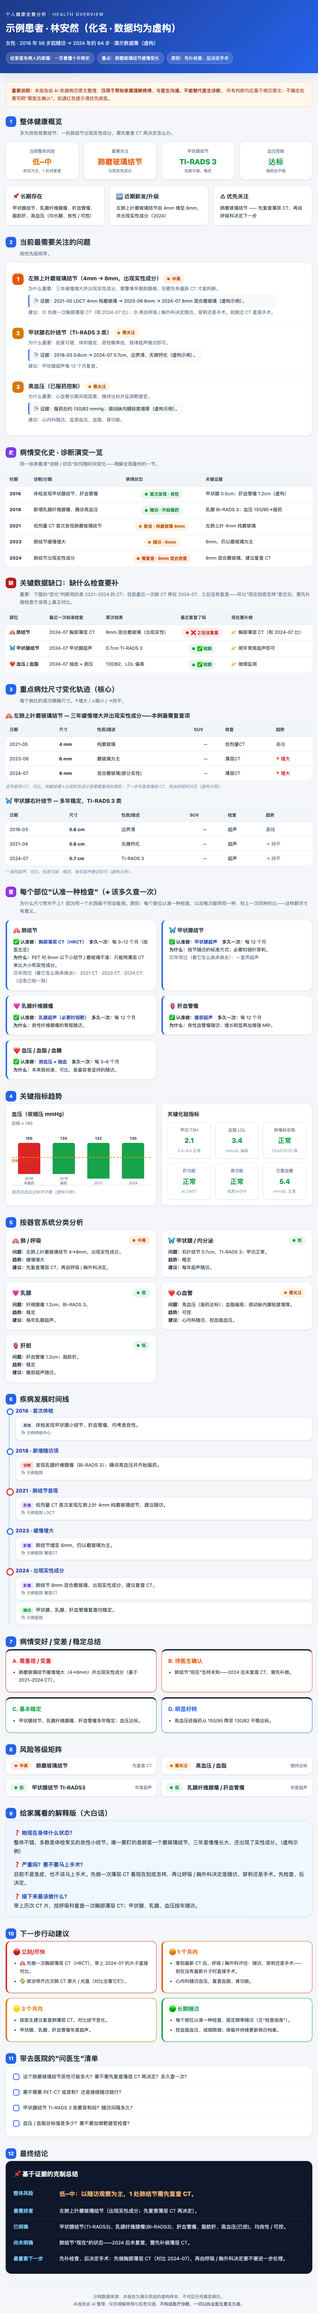
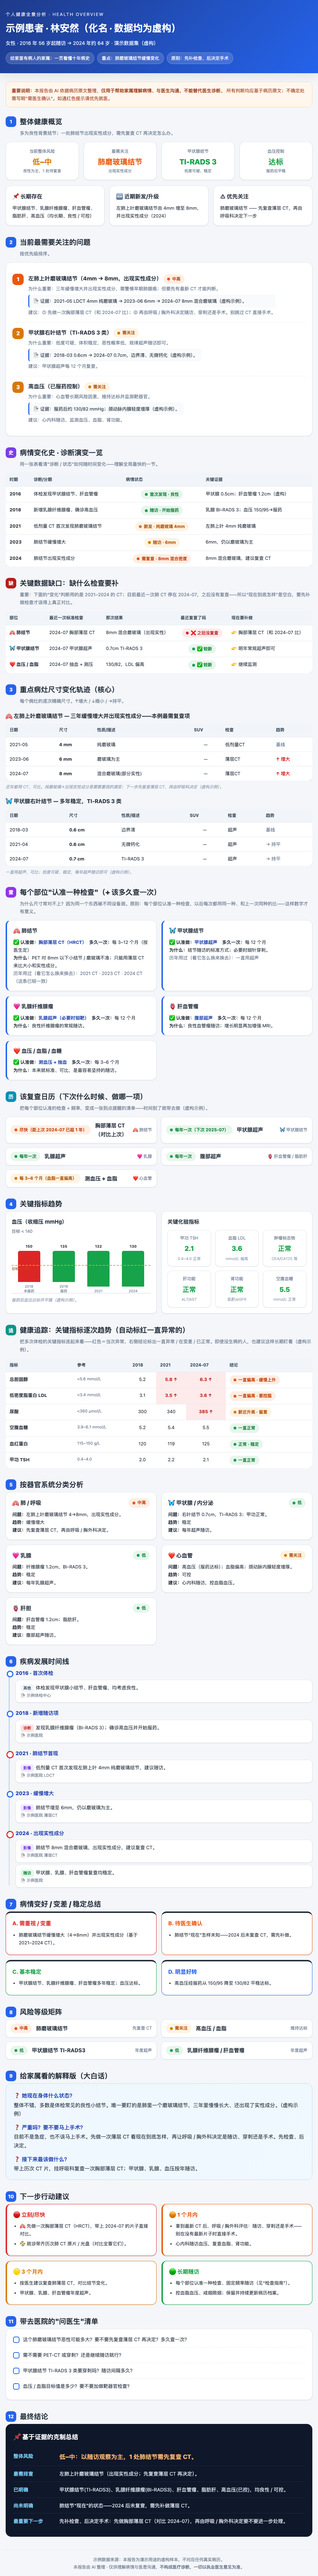
feat: health-tracking mode — lab_history trend table + recheck calendar
Add two sections so the skill also serves healthy people doing longitudinal
tracking: lab_history (key labs across visits, auto-flags persistently abnormal
values with a verdict) and recheck_calendar (per-site next-exam reminders).
Schema, fictional sample, SKILL.md, README, sample report, demo GIF and full
image refreshed. Fictional data only.

diff --git a/examples/sample_report.html b/examples/sample_report.html
@@ -124,12 +124,18 @@ footer{text-align:center;color:var(--muted);font-size:12px;margin-top:36px;paddi
             <div style="font-size:13px"><b>✅ 认准做：</b><span style="color:var(--blue-d)"><b>乳腺超声（必要时钼靶）</b></span>　<b>多久一次：</b>每 12 个月<br><b>为什么：</b>良性纤维腺瘤的常规随访。</div></div><div class="card" style="border-left:4px solid var(--blue)"><h3 style="font-size:15px">🫀 肝血管瘤</h3>
             <div style="font-size:13px"><b>✅ 认准做：</b><span style="color:var(--blue-d)"><b>腹部超声</b></span>　<b>多久一次：</b>每 12 个月<br><b>为什么：</b>良性血管瘤随访；增长明显再加增强 MRI。</div></div><div class="card" style="border-left:4px solid var(--blue)"><h3 style="font-size:15px">❤ 血压 / 血脂 / 血糖</h3>
             <div style="font-size:13px"><b>✅ 认准做：</b><span style="color:var(--blue-d)"><b>测血压 + 抽血</b></span>　<b>多久一次：</b>每 3–6 个月<br><b>为什么：</b>本来就标准、可比，是最容易坚持的随访。</div></div></div></section>
+<section><h2 class="sec"><span class="num" style="background:#0891b2">历</span>该复查日历（下次什么时候、做哪一项）</h2>
+          <p class="sec-desc">把每个部位认准的检查 + 频率，变成一张到点提醒的清单——时间到了就带去做（虚构示例）。</p>
+          <div class="risk-matrix"><div class="rm"><span class="badge b-orange"><span class="dotr d-orange"></span>尽快（距上次 2024-07 已超 1 年）</span><span class="sys">胸部薄层 CT（对比上次）</span><span class="lv">🫁 肺结节</span></div><div class="rm"><span class="badge b-green"><span class="dotr d-green"></span>每年一次（下次 2025-07）</span><span class="sys">甲状腺超声</span><span class="lv">🦋 甲状腺结节</span></div><div class="rm"><span class="badge b-green"><span class="dotr d-green"></span>每年一次</span><span class="sys">乳腺超声</span><span class="lv">🩷 乳腺</span></div><div class="rm"><span class="badge b-green"><span class="dotr d-green"></span>每年一次</span><span class="sys">腹部超声</span><span class="lv">🫀 肝血管瘤 / 脂肪肝</span></div><div class="rm"><span class="badge b-yellow"><span class="dotr d-yellow"></span>每 3–6 个月（血脂一直偏高）</span><span class="sys">测血压 + 血脂</span><span class="lv">❤ 心血管</span></div></div></section>
 <section><h2 class="sec"><span class="num">4</span>关键指标趋势</h2>
           <div class="grid g2"><div class="chart"><h3 style="margin:0 0 4px;font-size:15px">血压（收缩压 mmHg）</h3>
               <div style="font-size:12px;color:var(--muted);margin-bottom:6px">目标 &lt; 140</div>
               <div class="bars"><div class="refline" style="bottom:calc(18px + 0.30000000000000004*(160px - 18px))">目标 &lt; 140</div><div class="bar"><div class="val">150</div><div class="col" style="height:100%;background:var(--red)"></div><div class="lab">2018
 未服药</div></div><div class="bar"><div class="val">135</div><div class="col" style="height:90%;background:var(--green)"></div><div class="lab">2019
-服药</div></div><div class="bar"><div class="val">132</div><div class="col" style="height:88%;background:var(--green)"></div><div class="lab">2021</div></div><div class="bar"><div class="val">130</div><div class="col" style="height:86%;background:var(--green)"></div><div class="lab">2024</div></div></div><p class="note-src">服药后血压达标并平稳（虚构示例）。</p></div><div class="chart"><h3 style="margin:0 0 10px;font-size:15px">关键化验指标</h3><div class="marker-grid"><div class="mk"><div class="n">甲功 TSH</div><div class="vv">2.1</div><div class="rg">0.4–4.0 正常</div></div><div class="mk"><div class="n">血脂 LDL</div><div class="vv">3.4</div><div class="rg">mmol/L 偏高</div></div><div class="mk"><div class="n">肿瘤标志物</div><div class="vv">正常</div><div class="rg">CEA/CA125 等</div></div><div class="mk"><div class="n">肝功能</div><div class="vv">正常</div><div class="rg">ALT/AST</div></div><div class="mk"><div class="n">肾功能</div><div class="vv">正常</div><div class="rg">肌酐/eGFR</div></div><div class="mk"><div class="n">空腹血糖</div><div class="vv">5.4</div><div class="rg">mmol/L 正常</div></div></div></div></div></section>
+服药</div></div><div class="bar"><div class="val">132</div><div class="col" style="height:88%;background:var(--green)"></div><div class="lab">2021</div></div><div class="bar"><div class="val">130</div><div class="col" style="height:86%;background:var(--green)"></div><div class="lab">2024</div></div></div><p class="note-src">服药后血压达标并平稳（虚构示例）。</p></div><div class="chart"><h3 style="margin:0 0 10px;font-size:15px">关键化验指标</h3><div class="marker-grid"><div class="mk"><div class="n">甲功 TSH</div><div class="vv">2.1</div><div class="rg">0.4–4.0 正常</div></div><div class="mk"><div class="n">血脂 LDL</div><div class="vv">3.6</div><div class="rg">mmol/L 偏高</div></div><div class="mk"><div class="n">肿瘤标志物</div><div class="vv">正常</div><div class="rg">CEA/CA125 等</div></div><div class="mk"><div class="n">肝功能</div><div class="vv">正常</div><div class="rg">ALT/AST</div></div><div class="mk"><div class="n">肾功能</div><div class="vv">正常</div><div class="rg">肌酐/eGFR</div></div><div class="mk"><div class="n">空腹血糖</div><div class="vv">5.5</div><div class="rg">mmol/L 正常</div></div></div></div></div></section>
+<section><h2 class="sec"><span class="num" style="background:#0d9488">追</span>健康追踪：关键指标逐次趋势（自动标红一直异常的）</h2>
+          <p class="sec-desc">把多次体检的关键指标连起来看——红色＝当次异常，右侧结论标出一直异常 / 在变差 / 已正常。即使没生病的人，也建议这样长期盯着（虚构示例）。</p>
+          <div class="scroll"><table><thead><tr><th>指标</th><th>参考</th><th>2018</th><th>2021</th><th>2024-07</th><th>结论</th></tr></thead><tbody><tr><td><b>总胆固醇</b></td><td style="color:var(--muted);font-size:11.5px">&lt;5.6 mmol/L</td><td class="c">5.2</td><td class="c" style="background:#fdeaea;color:#b91c1c;font-weight:700">5.8 ↑</td><td class="c" style="background:#fdeaea;color:#b91c1c;font-weight:700">6.3 ↑</td><td><span class="badge b-orange"><span class="dotr d-orange"></span>一直偏高 · 缓慢上升</span></td></tr><tr><td><b>低密度脂蛋白 LDL</b></td><td style="color:var(--muted);font-size:11.5px">&lt;3.4 mmol/L</td><td class="c">3.1</td><td class="c" style="background:#fdeaea;color:#b91c1c;font-weight:700">3.5 ↑</td><td class="c" style="background:#fdeaea;color:#b91c1c;font-weight:700">3.6 ↑</td><td><span class="badge b-orange"><span class="dotr d-orange"></span>一直偏高 · 要控脂</span></td></tr><tr><td><b>尿酸</b></td><td style="color:var(--muted);font-size:11.5px">&lt;360 µmol/L</td><td class="c">300</td><td class="c">340</td><td class="c" style="background:#fdeaea;color:#b91c1c;font-weight:700">385 ↑</td><td><span class="badge b-yellow"><span class="dotr d-yellow"></span>新近升高 · 留意</span></td></tr><tr><td><b>空腹血糖</b></td><td style="color:var(--muted);font-size:11.5px">3.9–6.1 mmol/L</td><td class="c">5.2</td><td class="c">5.4</td><td class="c">5.5</td><td><span class="badge b-green"><span class="dotr d-green"></span>一直正常</span></td></tr><tr><td><b>血红蛋白</b></td><td style="color:var(--muted);font-size:11.5px">115–150 g/L</td><td class="c">120</td><td class="c">119</td><td class="c">125</td><td><span class="badge b-green"><span class="dotr d-green"></span>正常 · 稳定</span></td></tr><tr><td><b>甲功 TSH</b></td><td style="color:var(--muted);font-size:11.5px">0.4–4.0</td><td class="c">2.0</td><td class="c">2.2</td><td class="c">2.1</td><td><span class="badge b-green"><span class="dotr d-green"></span>一直正常</span></td></tr></tbody></table></div></section>
 <section><h2 class="sec"><span class="num">5</span>按器官系统分类分析</h2>
           <div class="grid g2"><div class="card"><h3><span>🫁 肺 / 呼吸</span><span class="badge b-orange"><span class="dotr d-orange"></span>中高</span></h3>
             <div style="font-size:13px"><b>问题：</b>左肺上叶磨玻璃结节 4→8mm，出现实性成分。<br><b>趋势：</b>缓慢增大<br><b>建议：</b>先复查薄层 CT，再由呼吸 / 胸外科决定。</div></div><div class="card"><h3><span>🦋 甲状腺 / 内分泌</span><span class="badge b-green"><span class="dotr d-green"></span>低</span></h3>

diff --git a/scripts/build_report.py b/scripts/build_report.py
@@ -234,6 +234,17 @@ def render(d):
           <p class="sec-desc">{esc(get(d,"exam_plan_note","为什么尺寸常常对不上？因为同一个东西被 CT / 超声 / PET / MRI 换着测。原则：每个部位认准一种检查，以后每次都用同一种、和上一次同种的比。"))}</p>
           <div class="grid g2">{cards}</div></section>''')
 
+    # recheck calendar (该复查日历)
+    rc = get(d, "recheck_calendar", [])
+    if rc:
+        items = "".join(
+            f'<div class="rm">{badge(get(x,"level","gray"), get(x,"due",""))}'
+            f'<span class="sys">{esc(get(x,"exam"))}</span>'
+            f'<span class="lv">{esc(get(x,"site",""))}</span></div>' for x in rc)
+        A(f'''<section><h2 class="sec"><span class="num" style="background:#0891b2">历</span>该复查日历（下次什么时候、做哪一项）</h2>
+          <p class="sec-desc">{esc(get(d,"recheck_calendar_note","把每个部位认准的检查 + 频率，变成一张到点提醒的清单——时间到了就带去做。"))}</p>
+          <div class="risk-matrix">{items}</div></section>''')
+
     # lab trends + markers
     labs = get(d, "lab_trends", [])
     markers = get(d, "markers", [])
@@ -260,6 +271,30 @@ def render(d):
             charts.append(f'<div class="chart"><h3 style="margin:0 0 10px;font-size:15px">关键化验指标</h3><div class="marker-grid">{mk}</div></div>')
         A(f'''<section><h2 class="sec"><span class="num">{secnum()}</span>关键指标趋势</h2>
           <div class="grid g2">{"".join(charts)}</div></section>''')
+
+    # lab history (健康追踪：指标逐次趋势，自动标红一直异常的)
+    lh = get(d, "lab_history", {})
+    if lh and get(lh, "rows"):
+        dates = get(lh, "dates", [])
+        ths = "".join(f'<th>{esc(x)}</th>' for x in dates)
+        trs = []
+        for r in get(lh, "rows", []):
+            vals = get(r, "values", [])
+            flags = get(r, "flags", [])
+            cells = ""
+            for i, v in enumerate(vals):
+                f = flags[i] if i < len(flags) else ""
+                bad = f in ("high", "low")
+                arrow = " ↑" if f == "high" else (" ↓" if f == "low" else "")
+                style = ' style="background:#fdeaea;color:#b91c1c;font-weight:700"' if bad else ''
+                cells += f'<td class="c"{style}>{esc(v)}{arrow}</td>'
+            trs.append(
+                f'<tr><td><b>{esc(get(r,"name"))}</b></td>'
+                f'<td style="color:var(--muted);font-size:11.5px">{esc(get(r,"ref",""))}</td>'
+                f'{cells}<td>{badge(get(r,"verdict_level","gray"), get(r,"verdict",""))}</td></tr>')
+        A(f'''<section><h2 class="sec"><span class="num" style="background:#0d9488">追</span>健康追踪：关键指标逐次趋势（自动标红一直异常的）</h2>
+          <p class="sec-desc">{esc(get(d,"lab_history_note","把多次体检/化验的关键指标连起来看——红色＝当次异常，右侧结论标出一直异常 / 在变差 / 已正常。健康人也建议这样长期盯着。"))}</p>
+          <div class="scroll"><table><thead><tr><th>指标</th><th>参考</th>{ths}<th>结论</th></tr></thead><tbody>{"".join(trs)}</tbody></table></div></section>''')
 
     # systems
     systems = get(d, "systems", [])

diff --git a/README.md b/README.md
@@ -58,10 +58,16 @@ Claude 会自动：**逐张读取扫描件 → 提取每个病灶的尺寸和日
 | ⚠ **关键数据缺口** | 哪个部位**缺最新检查**、是没做还是没找到、**现在该补做哪一项** |
 | 🔬 **认准一种检查 + 多久查一次** | 为什么尺寸老对不上；正常随访/体检到底该做哪种检查 |
 | 🩺 **先检查、后手术** | 缺数据先补检查，手术放到拿到结果之后再定 |
+| 📅 **该复查日历** | 每个部位下次什么时候、做哪一项，到点提醒 |
 | ✅ **问医生清单** | 直接打印带去医院 |
 
 > 🔒 **铁律**：一切基于病历原文，**不编造**；不确定写"需医生确认"；严重信号标红。
 > **它帮你理解病情、和医生沟通——但永远不替代医生。**
+
+### 🆕 健康追踪模式 —— 不止给病人，也给"想管理健康的人"
+
+把**多次体检/化验的关键指标连成一张趋势表**，自动**标红一直异常或在变差的**（如"总胆固醇一直偏高、缓慢上升"），再配一张**该复查日历**。
+即使没生病，也能把血脂、血糖、肝肾、甲功、肿瘤标志物**逐年盯住**——异常早发现，而不是每年体检完把单子扔进抽屉。
 
 ---
 

diff --git a/SKILL.md b/SKILL.md
@@ -62,6 +62,9 @@ description: >-
   明确回答家属常问的"是没找到报告，还是根本没做这个检查"。
 - **`exam_plan` 每个部位认准一种检查 + 多久查一次**：既解释"为什么尺寸对不上"，
   也相当于一份"正常随访/体检该做哪些检查"的清单（如 肺→薄层CT、甲状腺→超声、盆腔占位→增强MRI）。
+- **`lab_history` 健康追踪（也适合没生病的人）**：把多次体检的关键指标（血脂/血糖/肝肾/甲功/肿瘤标志物等）
+  连成一张趋势表，`flags` 标出每次的 high/low（自动标红），`verdict` 给"一直异常 / 在变差 / 已正常"。
+- **`recheck_calendar` 该复查日历**：每个部位下次该做的检查 + 时间，到点提醒家属去做。
 - `top_issues` / `changes` 变好-没变-变差（**三类互斥、每件事只出现一次**）/ `risk_matrix` / `family_qa` / `actions` / `doctor_questions` / `conclusion`。
 
 > 🩺 **"先检查、后手术"原则**：凡是缺最新数据的病灶，`actions.now` 一律先写"补做对应检查（认准同一种、和上一次比）"，
